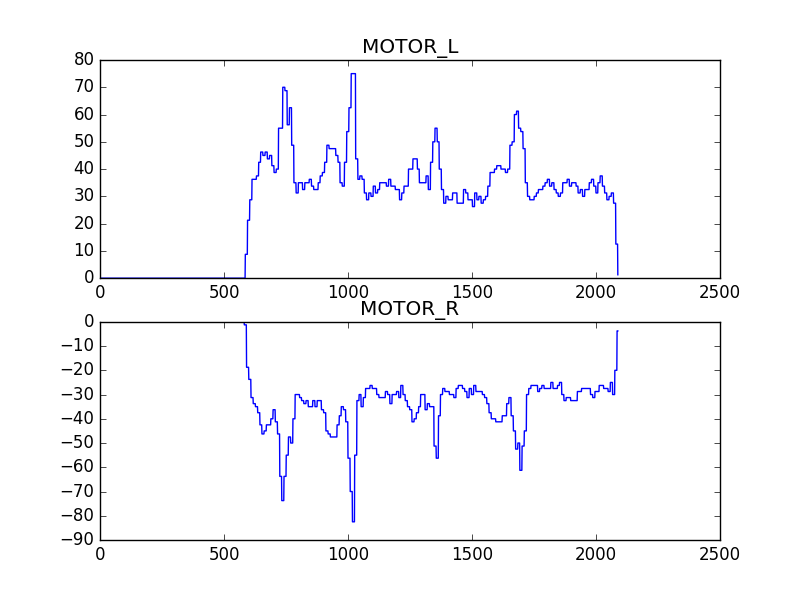
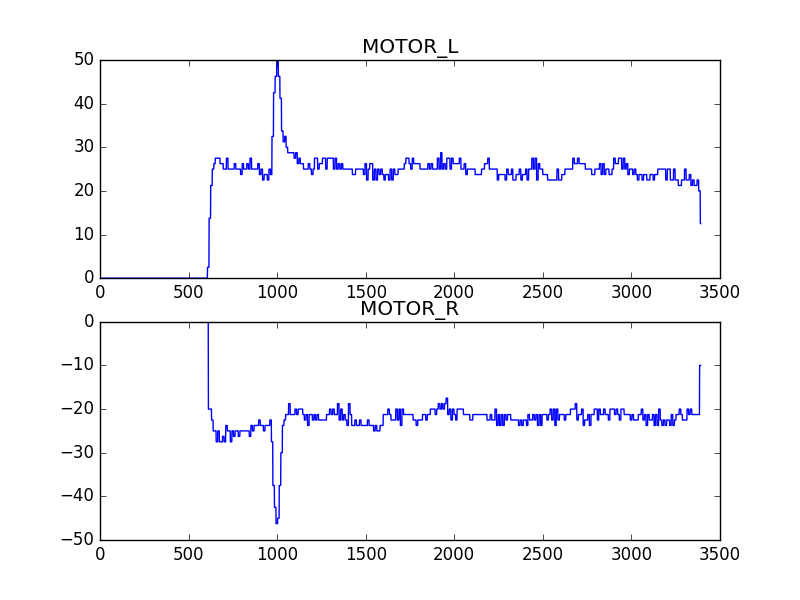
Added codes for live plotting (rpm and duty_cycle)

diff --git a/src/auto_nav/scripts/rpm_tuning_off_load_live_plot.py b/src/auto_nav/scripts/rpm_tuning_off_load_live_plot.py
@@ -1,0 +1,100 @@
+#!/usr/bin/env python
+
+###################################################################################################################
+# CODE TO TUNE PID
+#   Mode   Plus   Minus
+#   Kp      p       l
+#   Kd      d       x
+#   Ki      i       j
+# PRESS 'q' TO EXIT
+###################################################################################################################
+
+import struct
+import rospy
+import sys, select, termios, tty
+from auto_nav.msg import tuning_msg
+from auto_nav.msg import velocity_msg
+from auto_nav.msg import pid_response
+from matplotlib import pyplot as plt
+import matplotlib.animation as animation
+from matplotlib import style
+
+i = 0
+Kp = 2.5
+Kd = 0
+Ki = 0.4
+iTerm_max = 50
+iTerm_min = -50
+rpm_R = []
+duty_cycle_R = []
+samples = []
+desr_rpm = 0
+
+def getKey():
+    tty.setraw(sys.stdin.fileno())
+    rlist, _, _ = select.select([sys.stdin], [], [], 0.1)
+    if rlist:
+        key = sys.stdin.read(1)                                         # read key pressed on keyboard
+    else:
+        key = ''
+    termios.tcsetattr(sys.stdin, termios.TCSADRAIN, settings)
+    return key
+
+def animate(i):
+    global rpm_R, desr_rpm, Kp, Kd, Ki
+    if desr_rpm != 0:
+        ax1.axhline(y=desr_rpm, color='b', linestyle='-')
+        ax1.plot(rpm_R, color = 'r')
+        ax2.plot(duty_cycle_R, color = 'r')
+    print "Kp =", Kp, "\t\tKd =", Kd, "\tKi =", Ki
+    key = getKey()
+    if key == "p":
+        Kp+=0.01
+    elif key == "l":
+        Kp-=0.01
+    elif key == "d":
+        Kd+=0.0001
+    elif key == "x":
+        Kd-=0.0001
+    elif key == "i":
+        Ki+=0.0005
+    elif key == "j":
+        Ki-=0.0005
+    elif key == "q":
+        plot()
+        exit()
+    publish_tuna()
+
+def publish_tuna():
+    global Kp, Kp, Ki, tuna
+    tuna.Kp = Kp
+    tuna.Kd = Kd
+    tuna.Ki = Ki
+    pub.publish(tuna)
+
+def pid_callback(pid_response):
+    global rpm_R, desr_rpm, duty_cycle_R, i
+    rpm_R.append(pid_response.curr_rpm)
+    duty_cycle_R.append(pid_response.duty_cycle)
+    desr_rpm = pid_response.desr_rpm
+    i += 1
+
+def plot():
+    # title = "/home/swapnil/avitra_ws/src/auto_nav/observations_for_analysis/plots/rpm_tuning/off_load_right_motor/duty_is_pid_term/"+str(Kp)+"_"+str(Kd)+"_"+str(Ki)+"_"+str(iTerm_max)+"_"+str(iTerm_min)+".png"
+    title = "/home/swapnil/avitra_ws/src/auto_nav/observations_for_analysis/plots/rpm_tuning/off_load_right_motor/duty_is_pid_term/temp.png"
+    plt.savefig(title)
+    plt.show()
+
+if __name__=="__main__":
+    rospy.init_node('rpm_tuning',anonymous=False)
+    settings = termios.tcgetattr(sys.stdin)
+    pub = rospy.Publisher('tuning', tuning_msg, queue_size=10)          # publisher for teleop_key
+    rospy.Subscriber("pid_response", pid_response , pid_callback)
+    tuna = tuning_msg()    
+    fig = plt.figure()
+    ax1 = fig.add_subplot(1,2,1)
+    ax2 = fig.add_subplot(1,2,2)
+    ax1.set_title('curr_rpm_R')
+    ax2.set_title('duty_cycle_R')
+    ani = animation.FuncAnimation(fig, animate, interval = 1)
+    fig.show()        

diff --git a/src/auto_nav/scripts/rpm_tuning_off_load.py b/src/auto_nav/scripts/rpm_tuning_off_load.py
@@ -14,13 +14,17 @@ import rospy
 import sys, select, termios, tty
 from auto_nav.msg import tuning_msg
 from auto_nav.msg import velocity_msg
+from auto_nav.msg import pid_response
 from matplotlib import pyplot as plt
 
-Kp = 0
+Kp = 2.5
 Kd = 0
-Ki = 0.0
-rpmL = []
-rpmR = []
+Ki = 0.4
+iTerm_max = 50
+iTerm_min = -50
+rpm_R = []
+duty_cycle_R = []
+desr_rpm = 0
 
 def publish_tuna():
     global Kp, Kp, Ki, tuna
@@ -39,29 +43,29 @@ def getKey():
     termios.tcsetattr(sys.stdin, termios.TCSADRAIN, settings)
     return key
 
-def print_rpm(rpm):
-    global rpmL,rpmR
-    rpmL.append(rpm.motor_L)
-    rpmR.append(-rpm.motor_R)
+def pid_callback(pid_response):
+    global rpm_R, desr_rpm
+    rpm_R.append(pid_response.curr_rpm)
+    # duty_cycle_R.append(pid.duty_cycle)
+    desr_rpm = pid_response.desr_rpm
 
 def plot():
-    global rpmL, rpmR
+    global rpm_R, desr_rpm
     fig, axs = plt.subplots(2)
-    axs[0].plot(rpmL)
-    axs[1].plot(rpmR)
-    axs[0].set_title('MOTOR_L')
-    axs[1].set_title('MOTOR_R')
-    title = "/home/swapnil/avitra_ws/src/auto_nav/observations_for_analysis/plots/rpm_tuning/on_floor_in_bcr/forward/P/"+str(Kp)+"_"+str(Kd)+"_"+str(Ki)+".png"
-    # plt.savefig(title)
+    plt.plot(rpm_R, color='r')
+    plt.axhline(y=desr_rpm, color='b', linestyle='-')
+    # axs[0].set_title('rpm_R')
+    # axs[1].set_title('duty_cycle_R')
+    title = "/home/swapnil/avitra_ws/src/auto_nav/observations_for_analysis/plots/rpm_tuning/off_load_right_motor/duty_is_pid_term/"+str(Kp)+"_"+str(Kd)+"_"+str(Ki)+"_"+str(iTerm_max)+"_"+str(iTerm_min)+".png"
+    plt.savefig(title)
     plt.show()
 
 if __name__=="__main__":
     rospy.init_node('rpm_tuning',anonymous=False)
     settings = termios.tcgetattr(sys.stdin)
     pub = rospy.Publisher('tuning', tuning_msg, queue_size=10)          # publisher for teleop_key
-    rospy.Subscriber("rpm", velocity_msg , print_rpm)
+    rospy.Subscriber("pid_response", pid_response , pid_callback)
     tuna = tuning_msg()
-    plt.plot(0,30)
     while not rospy.is_shutdown():
         print "Kp =", Kp, "\t\tKd =", Kd, "\tKi =", Ki
         key = getKey()

diff --git a/src/auto_nav/scripts/pwm_vs_rpm.py b/src/auto_nav/scripts/pwm_vs_rpm.py
@@ -64,7 +64,7 @@ def plot():
     del rpm_R[:]
 
 def save_plot():
-    wb.save('/home/swapnil/avitra_ws/src/auto_nav/observations_for_analysis/sheets/xls/rpm_vs_pwm_a_buck_23V.xls') 
+    wb.save('/home/swapnil/avitra_ws/src/auto_nav/observations_for_analysis/sheets/xls/rpm_vs_pwm_forward_pwm_'+str(speed)+'.xls') 
     # fig.savefig('/home/swapnil/avitra_ws/src/auto_nav/observations_for_analysis/plots/pwm_vs_rpm.png')
     plt.show()
 
@@ -75,9 +75,9 @@ if __name__=="__main__":
     pub_pwm = rospy.Publisher('velocity', velocity_msg, queue_size=10)
     rospy.Subscriber("rpm", velocity_msg , rpm_callback)
     pwm = velocity_msg()
-    deploy_payloads("r", 0)
-    direction = "r"
-    speed = 35
+    deploy_payloads("w", 0)
+    direction = "w"
+    speed = 32
     motor_L = 0
     motor_R = 0
     fig, axs = plt.subplots(2)
@@ -91,6 +91,7 @@ if __name__=="__main__":
         print "direction =", direction, "\tspeed =", speed
         key = getKey()
         if key == "r":
+            plot()
             direction = "r"
         elif key == "w":
             direction = "w"
@@ -101,15 +102,13 @@ if __name__=="__main__":
         elif key == "d":
             direction = "d"
         elif key == "y":
-            plot()
             speed += 1
             if speed > 100:
                 speed = 100
         elif key == "h":
-            plot()
             speed -= 1
-            if speed < 35:
-                speed = 35
+            if speed < 32:
+                speed = 32
         elif key == "x":
             deploy_payloads("r", 0)
             save_plot()
